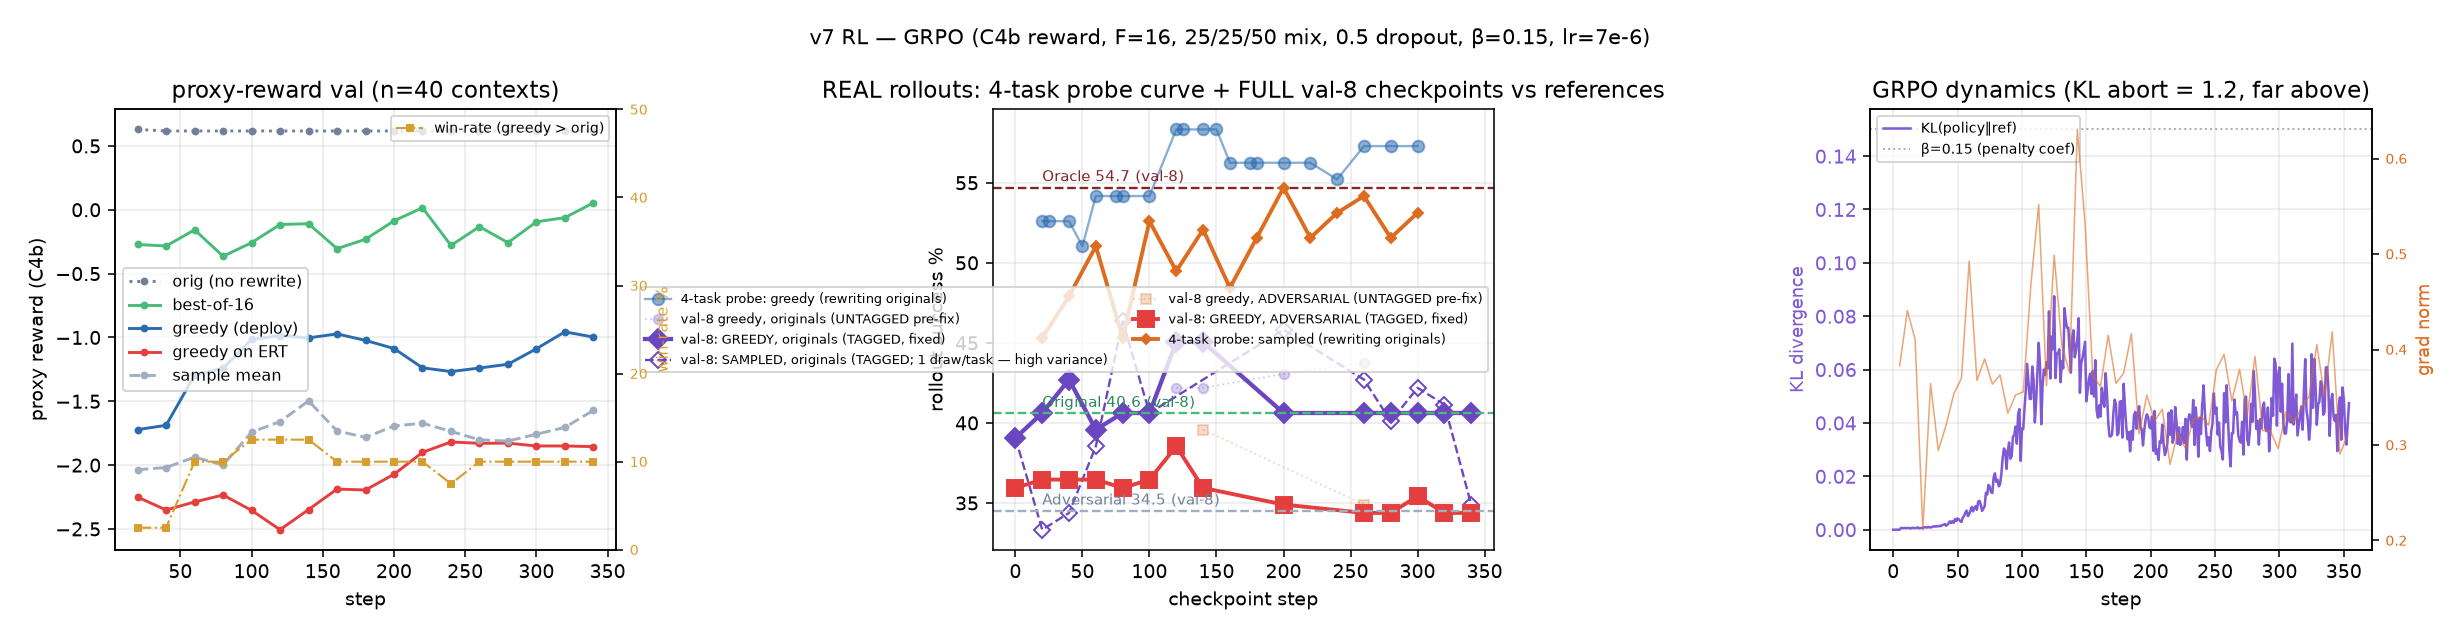
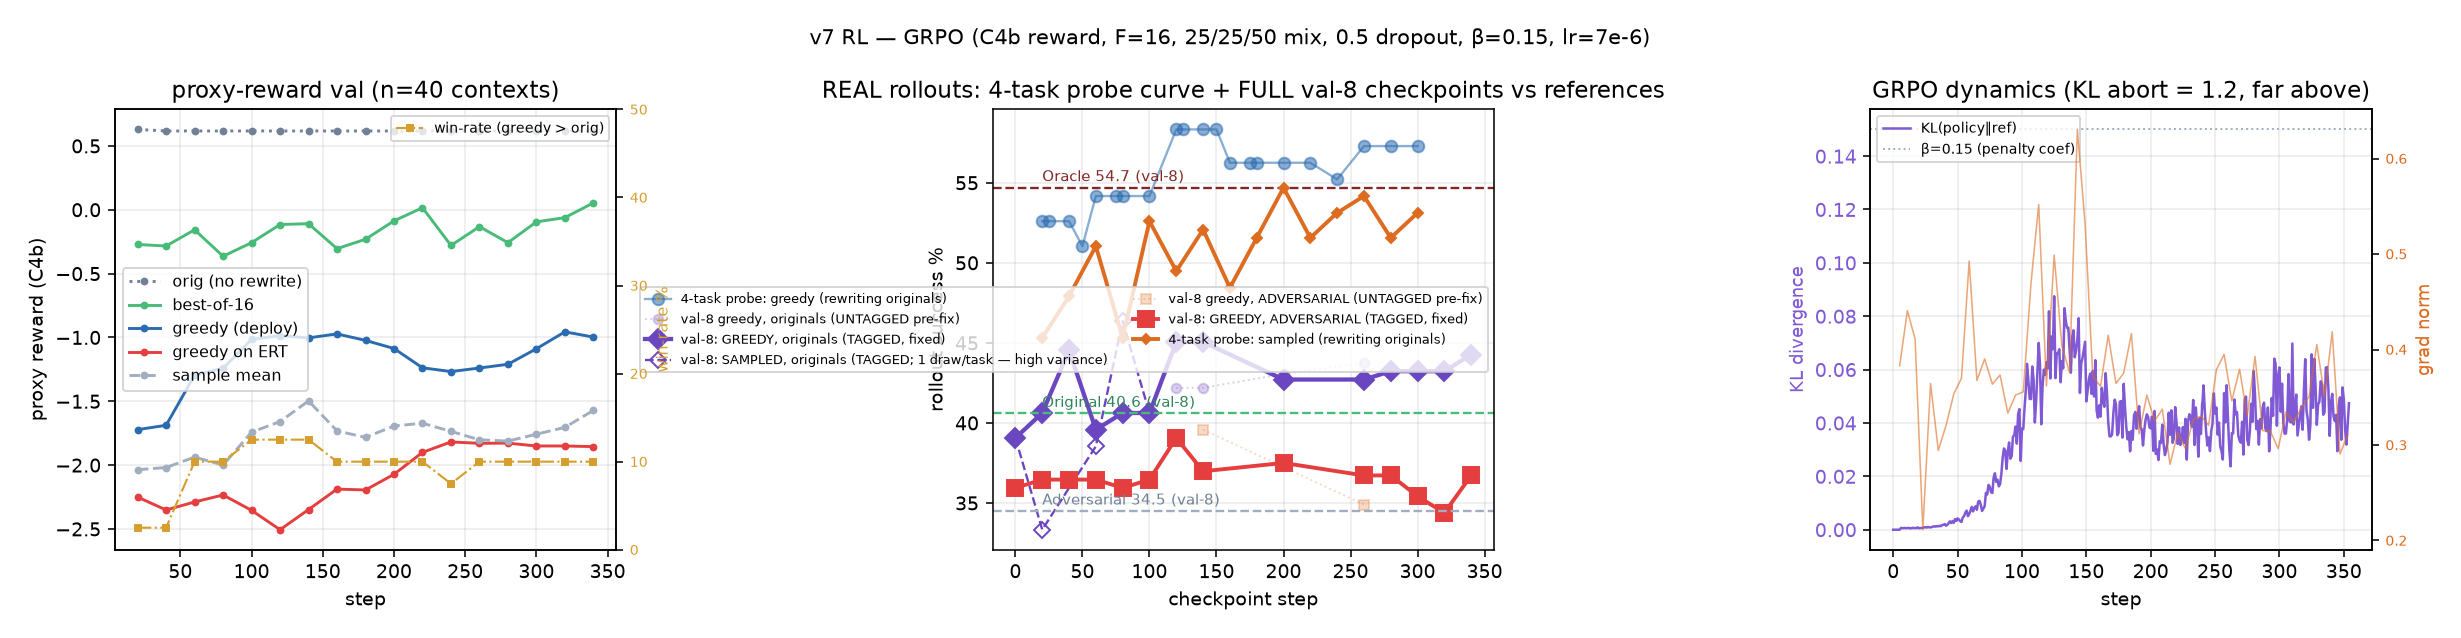
charts: frozen-Qwen baselines, max-n merge in v7_progress, decluttered v7f legend

Changed region(s): [[0.4632, 0.685, 0.6176, 0.8339], [0.4941, 0.5361, 0.6176, 0.685], [0.4015, 0.5361, 0.4632, 0.6552]]

diff --git a/scripts/make_v7f_progress.py b/scripts/make_v7f_progress.py
@@ -90,9 +90,9 @@ tr = a2.get_yaxis_transform()  # x in axes fraction, y in data units
 a2.axhline(54.7, ls="--", color="#822727", lw=1.2)
 a2.axhline(40.6, ls="--", color="#48bb78", lw=1.2)
 a2.axhline(34.5, ls="--", color="#a0aec0", lw=1.2)
-a2.axhline(36.98, ls=":", color="#e53e3e", lw=1.3, alpha=0.7)
-a2.text(0.02, 37.3, "fork-init repair 37.0 (v7a-140 rewriting adversarial — the fair rewriter baseline)",
-        color="#c53030", alpha=0.8, fontsize=7, transform=tr)
+a2.axhline(35.94, ls=":", color="#718096", lw=1.4)
+a2.text(0.02, 36.15, "FROZEN QWEN rewriting adversarial 35.9 (the real rewriter baseline)",
+        color="#4a5568", fontsize=7, transform=tr)
 a2.text(0.02, 55.1, "Oracle 54.7 (val-8)", color="#822727", fontsize=7.5, transform=tr)
 a2.text(0.02, 41.0, "Original 40.6 (val-8)", color="#2f855a", fontsize=7.5, transform=tr)
 a2.text(0.02, 34.9, "Adversarial 34.5 (val-8)", color="#718096", fontsize=7.5, transform=tr)
@@ -116,18 +116,19 @@ adv = _merged("results/analysis/v7f_adv_curve.jsonl", "results/analysis/v7f_adv_
 if adv:
     a2.plot([c["step"] for c in adv], [c["pooled"] for c in adv], marker="s", ms=8,
             color="#e53e3e", lw=2.0, label="v7f: GREEDY (rewriting ADVERSARIAL)")
-# v7e's lone C=16 probe: its step 25 = fork+5 on this axis
-a2.scatter([5], [40.89], marker="X", s=90, color="#a0aec0", zorder=4,
-           label="v7e branch (C=16) @fork+5: 40.9 (untagged probe, pre-fix)")
+# v7e's lone C=16 probe: its step 25 = fork+5 on this axis (label in footnote)
+a2.scatter([5], [40.89], marker="X", s=90, color="#a0aec0", zorder=4)
 a2.axvline(101, ls="-.", color="#4a5568", lw=1.0, alpha=0.6)
 a2.text(102, 30.5, "1 epoch ≈ 101 steps (809 club parents / 8 per step)", fontsize=6.5,
         color="#4a5568", rotation=90, va="bottom")
 a2.set_xlabel("v7f step (= steps past v7e@20 fork)")
 a2.set_ylabel("val-8 rollout success %")
 a2.set_ylim(30, 58)
-a2.set_title("REAL rollouts: v7f curve vs references")
-a2.legend(fontsize=7, loc="lower right")
+a2.set_title("REAL rollouts: v7f curves vs references")
+a2.legend(fontsize=6.5, loc="upper center", bbox_to_anchor=(0.5, -0.13), ncol=2, frameon=False)
 a2.grid(alpha=0.25)
+fig.text(0.35, 0.005, "gray X = v7e branch (C=16) @fork+5, untagged pre-fix probe (40.9)",
+         fontsize=6.5, color="#718096")
 
 if trec:
     ts = [d["step"] for d in trec]

diff --git a/scripts/make_v7_conditions_chart.py b/scripts/make_v7_conditions_chart.py
@@ -61,6 +61,9 @@ ax.plot([], [], marker="o", ls="none", markerfacecolor="#a0aec0", markeredgecolo
 ax.axvline(250, ls="-.", color="#4a5568", lw=1.0, alpha=0.6)
 ax.text(252, 31, "1 epoch (250 steps = 2,000 parent contexts / 8 per step)", fontsize=7,
         color="#4a5568", rotation=90, va="bottom")
+ax.annotate("step 0 = FROZEN QWEN\n(zero-init LoRA)", xy=(0, 39.06), xytext=(8, 33),
+            fontsize=7, color="#4a5568",
+            arrowprops=dict(arrowstyle="->", color="#4a5568", lw=0.8))
 ax.set_xlabel("v7a checkpoint step (run trained to 340 ≈ 1.36 epochs)")
 ax.set_ylabel("val-8 rollout success % (8 tasks × 24 layouts, greedy)")
 ax.set_ylim(30, 58)

diff --git a/scripts/make_v7_progress.py b/scripts/make_v7_progress.py
@@ -74,8 +74,13 @@ def _tagged(pattern):
     by_step = {}
     for f in sorted(glob.glob(pattern)):
         for x in open(f):
+            x = x.strip()
+            if not x:
+                continue
             r = json.loads(x)
-            by_step[r["step"]] = r
+            # prefer the deepest (highest-n) measurement per step
+            if r["step"] not in by_step or r.get("n", 0) > by_step[r["step"]].get("n", 0):
+                by_step[r["step"]] = r
     return sorted(by_step.values(), key=lambda r: r["step"])
 
 
